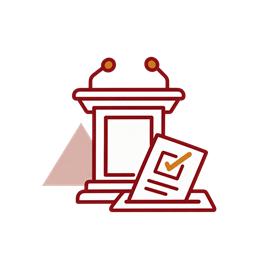
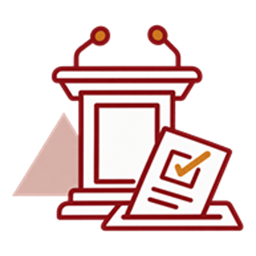
1024.1923
icon update

Changed region(s): [[0.0312, 0.0938, 0.9688, 0.9062]]

diff --git a/script.js b/script.js
@@ -1721,7 +1721,7 @@ function extractCountySummary(text) {
 	            <div class="home-recent-tabs home-browse-title" role="presentation">
 	                <div class="home-recent-tab is-static is-active">選舉及公投類別</div>
 	            </div>
-            <div class="main-menu-grid is-home">`;
+            <div class="main-menu-grid is-home is-tile-menu">`;
         
     electionCategories.forEach(cat => {
         // 判斷：如果是公民投票或立法委員，點擊時執行對應的 SubMenu
@@ -1739,7 +1739,7 @@ function extractCountySummary(text) {
         }
 
         html += `<button class=\"menu-button\" type=\"button\" onclick=\"${clickAction}\">
-            <img class=\"menu-art\" src=\"images/election-categories/${cat.iconKey}.png?v=ui-redesign-2\" alt=\"\" width=\"144\" height=\"144\" loading=\"lazy\" decoding=\"async\">
+            <span class=\"menu-art-frame\"><img class=\"menu-art\" src=\"images/election-categories/${cat.iconKey}.png?v=ui-redesign-36\" alt=\"\" width=\"256\" height=\"256\" loading=\"lazy\" decoding=\"async\"></span>
             <span class=\"menu-text\">${cat.type}</span>
         </button>`;
     });
@@ -1926,19 +1926,16 @@ function extractCountySummary(text) {
 
 	html += `<div class="main-section">
             <div class="menu-section-title">請選擇公投類別</div>
-            <div class="main-menu-grid is-small-set">
-                   <div class="menu-button" role="button" tabindex="0" onclick="renderElectionList('全國性公投', true)">
-                    <span class="menu-icon" aria-hidden="true">${getMenuIconSvg('nation')}</span>
+            <div class="main-menu-grid is-tile-menu">
+                <button class="menu-button" type="button" onclick="renderElectionList('全國性公投', true)">
+                    <span class="menu-art-frame"><img class="menu-art" src="images/election-categories/referendum-national.png?v=ui-redesign-32" alt="" width="256" height="256" decoding="async"></span>
                     <span class="menu-text">全國性公投</span>
-                    <span class="menu-chevron" aria-hidden="true">›</span>
-                </div>
+                </button>
 
-                <div class="menu-button" role="button" tabindex="0" onclick="renderElectionList('地方性公投', true)">
-                    <span class="menu-icon" aria-hidden="true">${getMenuIconSvg('local')}</span>
+                <button class="menu-button" type="button" onclick="renderElectionList('地方性公投', true)">
+                    <span class="menu-art-frame"><img class="menu-art" src="images/election-categories/referendum-local.png?v=ui-redesign-33" alt="" width="256" height="256" decoding="async"></span>
                     <span class="menu-text">地方性公投</span>
-                    <span class="menu-chevron" aria-hidden="true">›</span>
-                </div>
-                ${padMenuGrid(2)}
+                </button>
             </div>
         </div>`;
 
@@ -1970,19 +1967,16 @@ function extractCountySummary(text) {
 
 	html += `<div class="main-section">
             <div class="menu-section-title">請選擇立委類別</div>
-            <div class="main-menu-grid is-small-set">
-                   <div class="menu-button" role="button" tabindex="0" onclick="renderElectionList('區域立委', true)">
-                    <span class="menu-icon" aria-hidden="true">${getMenuIconSvg('district')}</span>
+            <div class="main-menu-grid is-tile-menu">
+                <button class="menu-button" type="button" onclick="renderElectionList('區域立委', true)">
+                    <span class="menu-art-frame"><img class="menu-art" src="images/election-categories/district.png?v=ui-redesign-30" alt="" width="256" height="256" decoding="async"></span>
                     <span class="menu-text">區域立委</span>
-                    <span class="menu-chevron" aria-hidden="true">›</span>
-                </div>
+                </button>
 
-                <div class="menu-button" role="button" tabindex="0" onclick="renderElectionList('不分區立委', true)">
-                    <span class="menu-icon" aria-hidden="true">${getMenuIconSvg('party')}</span>
+                <button class="menu-button" type="button" onclick="renderElectionList('不分區立委', true)">
+                    <span class="menu-art-frame"><img class="menu-art" src="images/election-categories/party-list.png?v=ui-redesign-29" alt="" width="256" height="256" decoding="async"></span>
                     <span class="menu-text">不分區立委</span>
-                    <span class="menu-chevron" aria-hidden="true">›</span>
-                </div>
-                ${padMenuGrid(2)}
+                </button>
             </div>
         </div>`;
 

diff --git a/style.css b/style.css
@@ -1058,8 +1058,8 @@ html[data-theme="light"] footer { background: var(--bg-warm); border-top-color: 
     }
 }
 
-/* 首頁類別：獨立方格圖卡，沿用本站配色。 */
-.main-menu-grid.is-home {
+/* 首頁與類別子選單共用的方格圖卡。 */
+.main-menu-grid.is-tile-menu {
     grid-template-columns: repeat(5, minmax(0, 1fr));
     gap: 14px;
     border: 0;
@@ -1069,16 +1069,17 @@ html[data-theme="light"] footer { background: var(--bg-warm); border-top-color: 
     overflow: visible;
 }
 
-.main-menu-grid.is-home .menu-button {
-    display: flex;
-    flex-direction: column;
-    justify-content: center;
+.main-menu-grid.is-tile-menu .menu-button {
+    display: grid;
+    grid-template-columns: minmax(0, 1fr);
+    grid-template-rows: minmax(0, 1fr) auto;
+    justify-items: center;
     align-items: center;
-    gap: 16px;
+    gap: 4px;
     min-width: 0;
     min-height: 0;
     aspect-ratio: 1;
-    padding: 20px 12px;
+    padding: 8px;
     border: 1px solid var(--border-light);
     border-radius: var(--radius-xl);
     box-shadow: var(--shadow-1);
@@ -1086,26 +1087,39 @@ html[data-theme="light"] footer { background: var(--bg-warm); border-top-color: 
     transition: transform .18s ease, box-shadow .18s ease, border-color .18s ease, background .18s ease;
 }
 
-.main-menu-grid.is-home .menu-button::before { display: none; }
-.main-menu-grid.is-home .menu-button:hover {
+.main-menu-grid.is-tile-menu .menu-button::before { display: none; }
+.main-menu-grid.is-tile-menu .menu-button:hover {
     transform: translateY(-3px);
     border-color: var(--primary);
     box-shadow: var(--shadow-2);
 }
-.main-menu-grid.is-home .menu-button:focus-visible {
+.main-menu-grid.is-tile-menu .menu-button:focus-visible {
     outline: 3px solid var(--primary);
     outline-offset: 3px;
 }
-.main-menu-grid.is-home .menu-art {
-    display: block;
-    width: min(72%, 144px);
-    height: auto;
-    aspect-ratio: 1;
-    object-fit: contain;
-    flex-shrink: 1;
+.main-menu-grid.is-tile-menu .menu-art-frame {
+    display: grid;
+    place-items: center;
+    width: 100%;
+    height: 100%;
+    min-width: 0;
+    min-height: 0;
 }
-.main-menu-grid.is-home .menu-text {
+.main-menu-grid.is-tile-menu .menu-art {
     display: block;
+    width: 82%;
+    height: 82%;
+    max-width: 144px;
+    max-height: 144px;
+    min-width: 0;
+    min-height: 0;
+    margin: auto;
+    object-fit: contain;
+    object-position: center;
+}
+.main-menu-grid.is-tile-menu .menu-text {
+    display: block;
+    transform: translateY(-6px);
     max-width: 100%;
     font-size: 17px !important;
     line-height: 1.35;
@@ -1114,15 +1128,14 @@ html[data-theme="light"] footer { background: var(--bg-warm); border-top-color: 
 }
 
 @media (max-width: 960px) {
-    .main-menu-grid.is-home { grid-template-columns: repeat(3, minmax(0, 1fr)); }
+    .main-menu-grid.is-tile-menu { grid-template-columns: repeat(3, minmax(0, 1fr)); }
 }
 @media (max-width: 600px) {
-    .main-menu-grid.is-home { grid-template-columns: repeat(2, minmax(0, 1fr)); gap: 10px; }
-    .main-menu-grid.is-home .menu-button { gap: 10px; padding: 14px 8px; }
-    .main-menu-grid.is-home .menu-art { width: min(70%, 104px); }
-    .main-menu-grid.is-home .menu-text { font-size: 14px !important; }
+    .main-menu-grid.is-tile-menu { grid-template-columns: repeat(3, minmax(0, 1fr)); gap: 8px; }
+    .main-menu-grid.is-tile-menu .menu-button { aspect-ratio: 1; gap: 2px; padding: 4px; }
+    .main-menu-grid.is-tile-menu .menu-text { font-size: clamp(12px, 3.4vw, 14px) !important; }
 }
 @media (prefers-reduced-motion: reduce) {
-    .main-menu-grid.is-home .menu-button { transition: none; }
-    .main-menu-grid.is-home .menu-button:hover { transform: none; }
+    .main-menu-grid.is-tile-menu .menu-button { transition: none; }
+    .main-menu-grid.is-tile-menu .menu-button:hover { transform: none; }
 }

diff --git a/index.html b/index.html
@@ -42,7 +42,7 @@
         }catch(e){}
     })();
     </script>
-    <link rel="stylesheet" href="style.css?v=ui-redesign-2">
+    <link rel="stylesheet" href="style.css?v=ui-redesign-23">
     <!-- 候選人名鑑（獨立模組樣式） -->
     <link rel="stylesheet" href="candidate-directory.css">
 </head>
